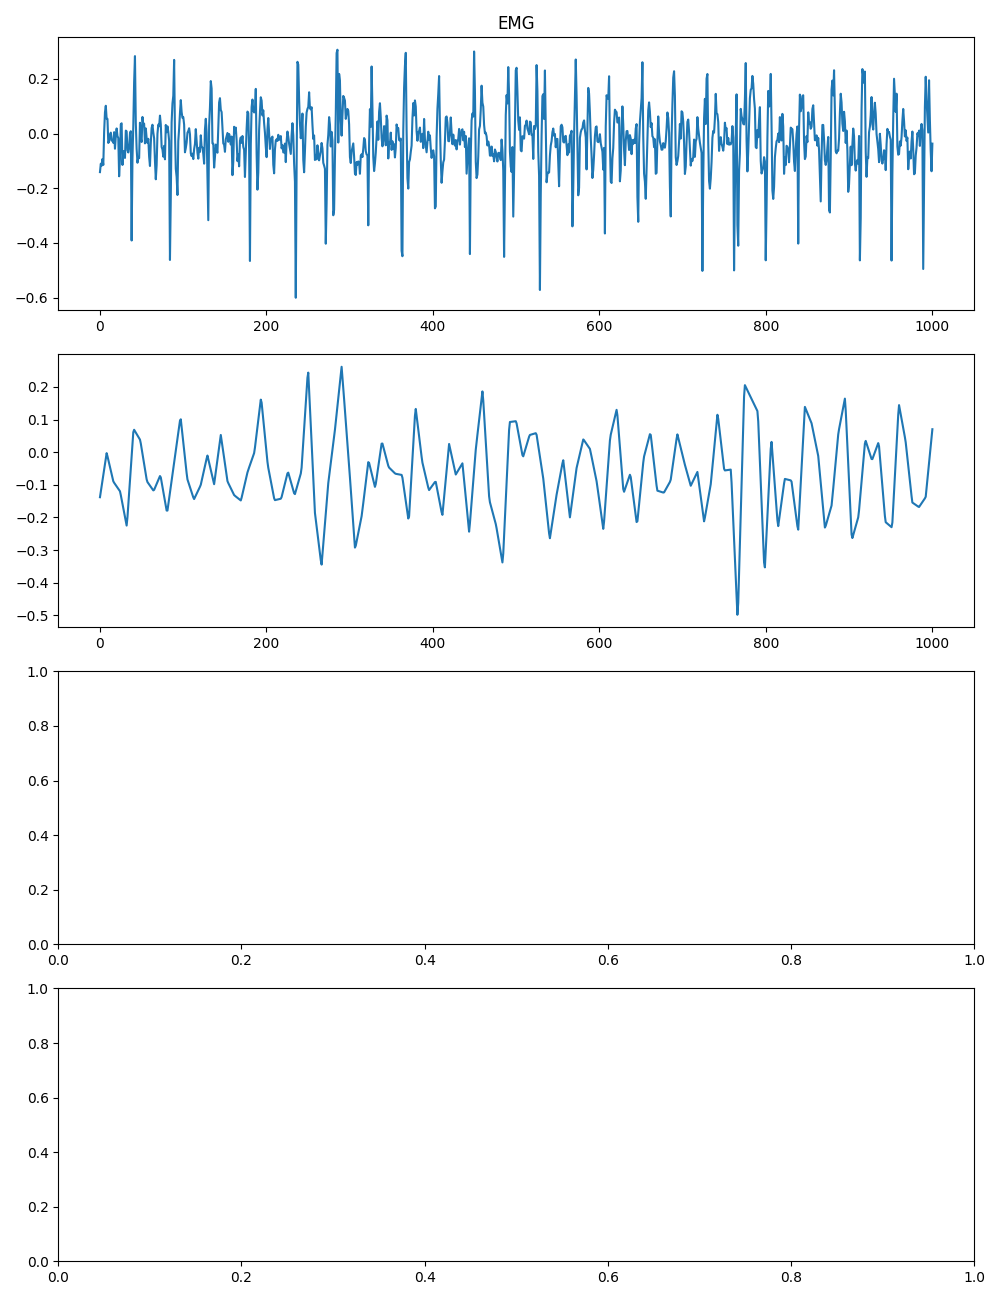
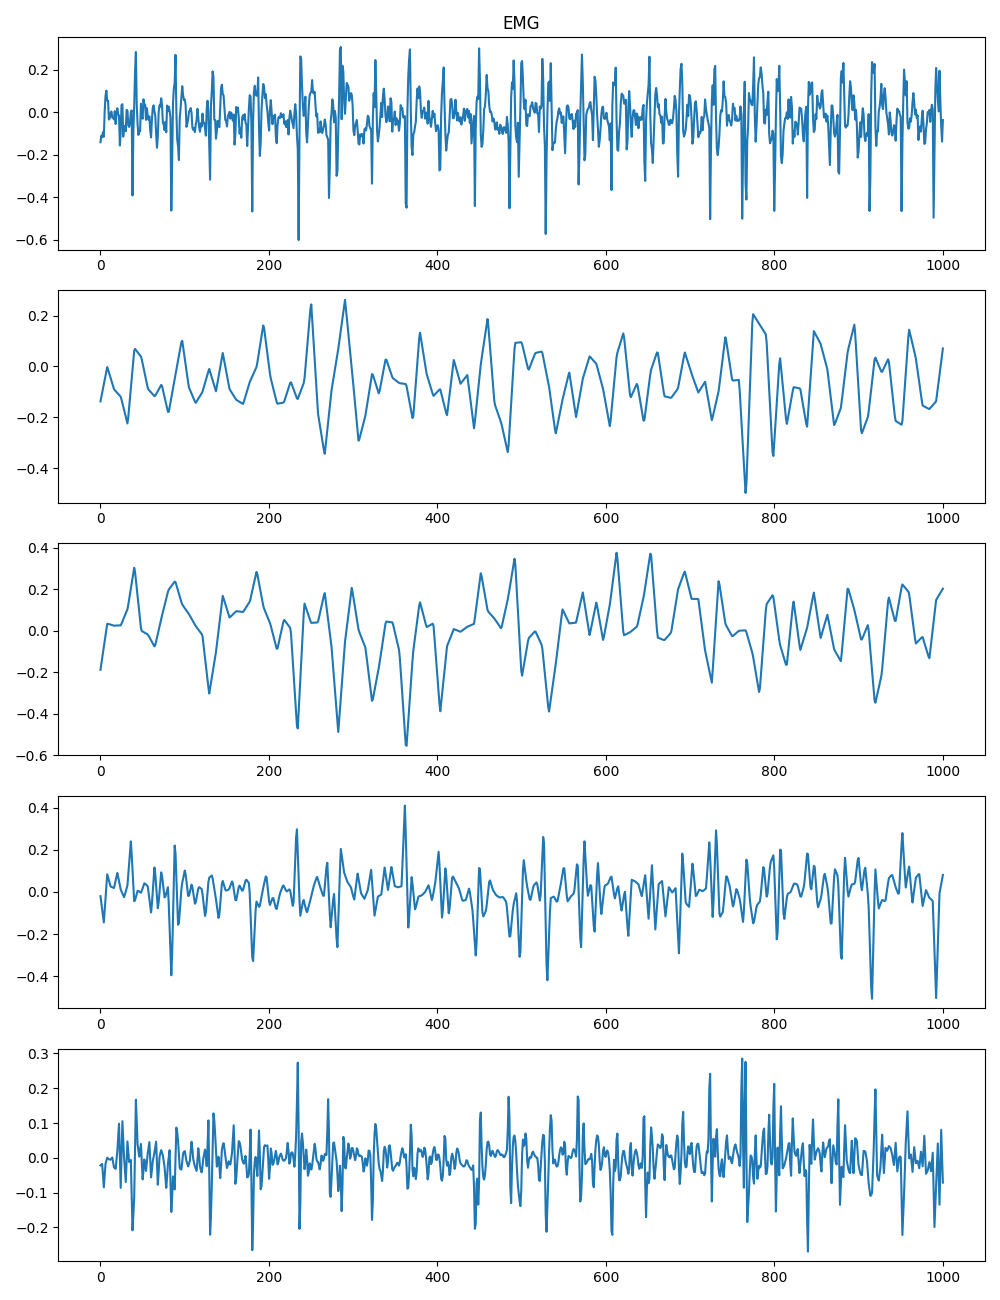
wave dec success

diff --git a/signal_channel_filtration.py b/signal_channel_filtration.py
@@ -30,18 +30,24 @@ for class_number in classes_array:
         for (columnName, columnData) in dataset.items():
             # convert array to column
             coeffs = pywt.wavedec(columnData, 'db1', level=3)
-            fig, ax = plt.subplots(4, 1, figsize=(10, 13))
+            fig, ax = plt.subplots(5, 1, figsize=(10, 13))
 
             new_len = 1000
             f1 = interp1d(np.linspace(0, 1, len(coeffs[0])), coeffs[0], kind='linear')
             rescaled_arr1 = f1(np.linspace(0, 1, new_len))
+            f2 = interp1d(np.linspace(0, 1, len(coeffs[1])), coeffs[1], kind='linear')
+            rescaled_arr2 = f2(np.linspace(0, 1, new_len))
+            f3 = interp1d(np.linspace(0, 1, len(coeffs[2])), coeffs[2], kind='linear')
+            rescaled_arr3 = f3(np.linspace(0, 1, new_len))
+            f4 = interp1d(np.linspace(0, 1, len(coeffs[3])), coeffs[3], kind='linear')
+            rescaled_arr4 = f4(np.linspace(0, 1, new_len))
             
             x = np.linspace(start = 0, stop = 1000, num = 1000) # for AB
             ax[0].plot(x, columnData)
             ax[1].plot(x, rescaled_arr1)
-            # ax[1].plot(x, coeffs[1])
-            # ax[2].plot(x, coeffs[2])
-            # ax[3].plot(x, coeffs[3])
+            ax[2].plot(x, rescaled_arr2)
+            ax[3].plot(x, rescaled_arr3)
+            ax[4].plot(x, rescaled_arr4)
             ax[0].set_title("EMG")
             plt.tight_layout()
             plt.savefig("test.png")
